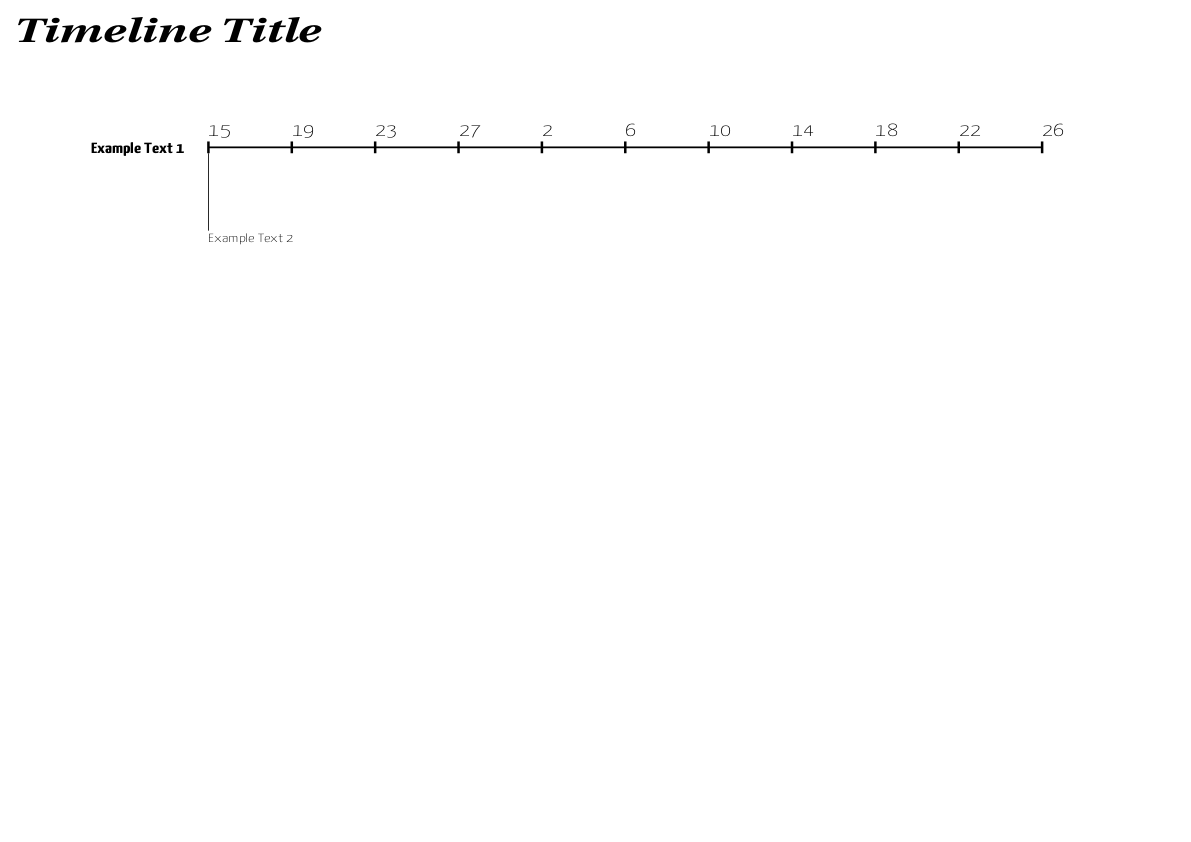
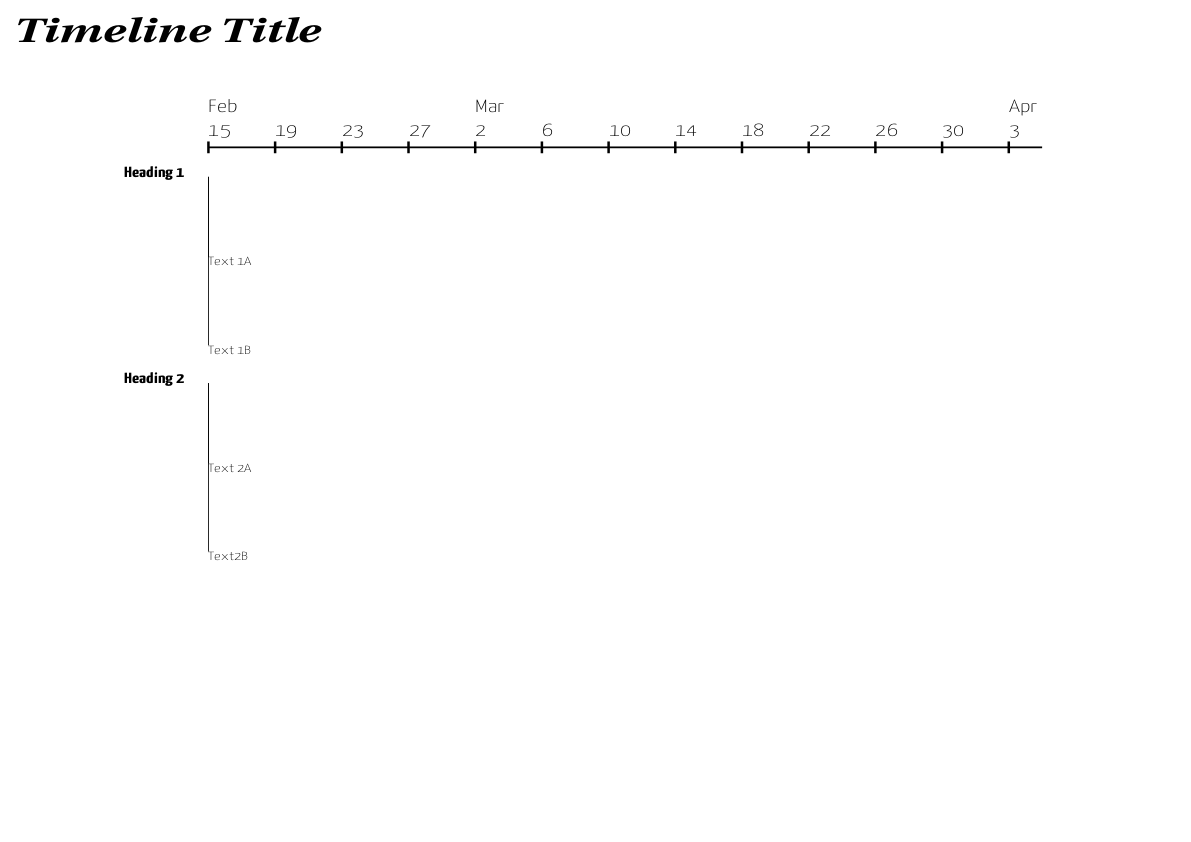
proper handling of dates implemented using datetime library

diff --git a/timeline.py b/timeline.py
@@ -1,5 +1,8 @@
 #!/usr/bin/env python3
 import cairo
+import calendar
+import datetime
+from dateutil.rrule import rrule, MONTHLY, DAILY
 
 class Surface:
     def __init__(self, bgcolor=(1, 1, 1), fname="out",
@@ -43,7 +46,9 @@ class TimeLine:
         self.translation, self.scale = translation, scale
     def draw(self, surface, font="Yanone Kaffeesatz Thin", fontSize=0.03,
              lineWidth=0.003, lineColor=(0, 0, 0), textSep=0.01,
-             coarseness=4, timeframe=40, tickHeight=0.01, start=15, month=29):
+             coarseness=4, timeframe=datetime.timedelta(days=50),
+             tickHeight=0.01, start=datetime.date(2020, 2, 15),
+             monthTextSep=0.04):
         context = self.context()
         context.select_font_face(font)
         context.set_font_size(fontSize)
@@ -52,33 +57,40 @@ class TimeLine:
 
         self._horizontal_line(context)
         self._vertical_steps(context, coarseness, timeframe, textSep,
-                             tickHeight, start, month)
+                             tickHeight, start, monthTextSep)
         return self
     def _horizontal_line(self, context):
         context.move_to(0, 0)
         context.line_to(1, 0)
         context.stroke()
     def _vertical_steps(self, context, coarseness, timeframe, textSep,
-                        tickHeight, start, month):
-        dx = float(coarseness) / timeframe
-        for i in range(int(timeframe / coarseness) + 1):
+                        tickHeight, start, monthTextSep):
+        dt = 1 / float(timeframe.days)
+        dx = float(coarseness) * dt
+        days = [(t.day, t.month) for t in rrule(DAILY, interval=coarseness,
+                                                dtstart=start,
+                                                until=(start + timeframe))]
+        for i in range(len(days)):
             context.move_to(i * dx, -tickHeight)
             context.line_to(i * dx,  tickHeight)
             context.stroke()
             context.move_to(i * dx, -tickHeight - textSep)
-            context.show_text(str((start +
-                                   i * coarseness) % month))
+            context.show_text(str(days[i][0]))
+            context.move_to(i * dx, -tickHeight - textSep - monthTextSep)
+            if i - 1 < 0 or days[i - 1][1] < days[i][1]:
+                context.show_text(calendar.month_abbr[days[i][1]])
     def context(self, width=None, height=None):
         context = self.surface.context(width, height, scale=self.scale)
         context.translate(*self.translation)
         return context
 class Tasks:
-    def __init__(self, timeline, heading, vPos=0.01,
+    def __init__(self, timeline, heading, vPos=0.05,
                  headingFont="Yanone Kaffeesatz Bold",
                  headingFontSize=0.025):
         self.context = self._set_heading(timeline.context(),
                                          heading, headingFont,
                                          headingFontSize, vPos)
+        self.height = 0
     def _set_heading(self, context, heading, headingFont, headingFontSize,
                      vPos, padding=0.03):
         context.set_source_rgb(0, 0, 0)
@@ -92,20 +104,24 @@ class Tasks:
         return context
     def add_task(self, text, vPos=0.15, font="Yanone Kaffeesatz Thin",
                  linewidth=0.001, taskFontSize=0.02):
+        y = vPos + self.height
+        self.height += vPos
+
         self.context.select_font_face(font)
         self.context.set_font_size(taskFontSize)
         self.context.set_line_width(linewidth)
         xbearing, ybearing, width, height, dx, dy = \
                 self.context.text_extents(text)
         self.context.move_to(0, 0)
-        self.context.line_to(0, vPos - height)
+        self.context.line_to(0, y - height)
         self.context.stroke()
-        self.context.move_to(0, vPos)
+        self.context.move_to(0, y)
         self.context.show_text(text)
-        return self.context
+        return self
 def main():
     with Surface() as surface:
-        Tasks(TimeLine(surface.add_title(surface)).draw(surface),
-              "Example Text 1").add_task("Example Text 2")
+        timeline = TimeLine(surface.add_title(surface)).draw(surface)
+        Tasks(timeline, "Heading 1").add_task("Text 1A").add_task("Text 1B")
+        Tasks(timeline, "Heading 2", vPos=0.4).add_task("Text 2A").add_task("Text2B")
 if __name__ == "__main__":
     main()
